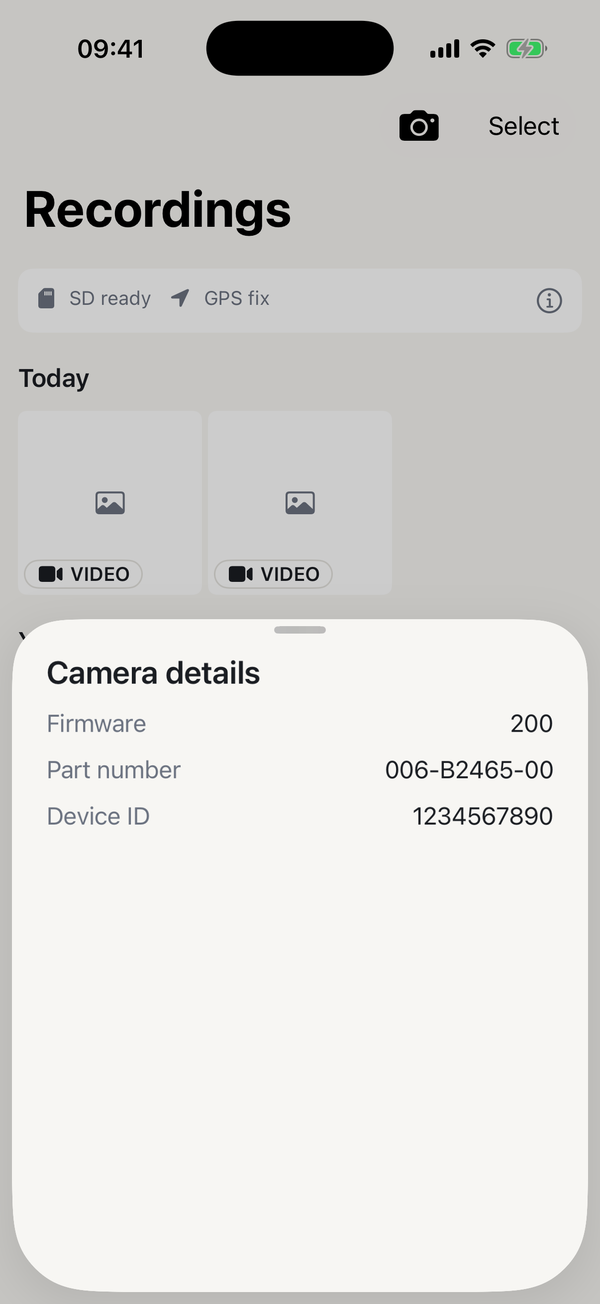
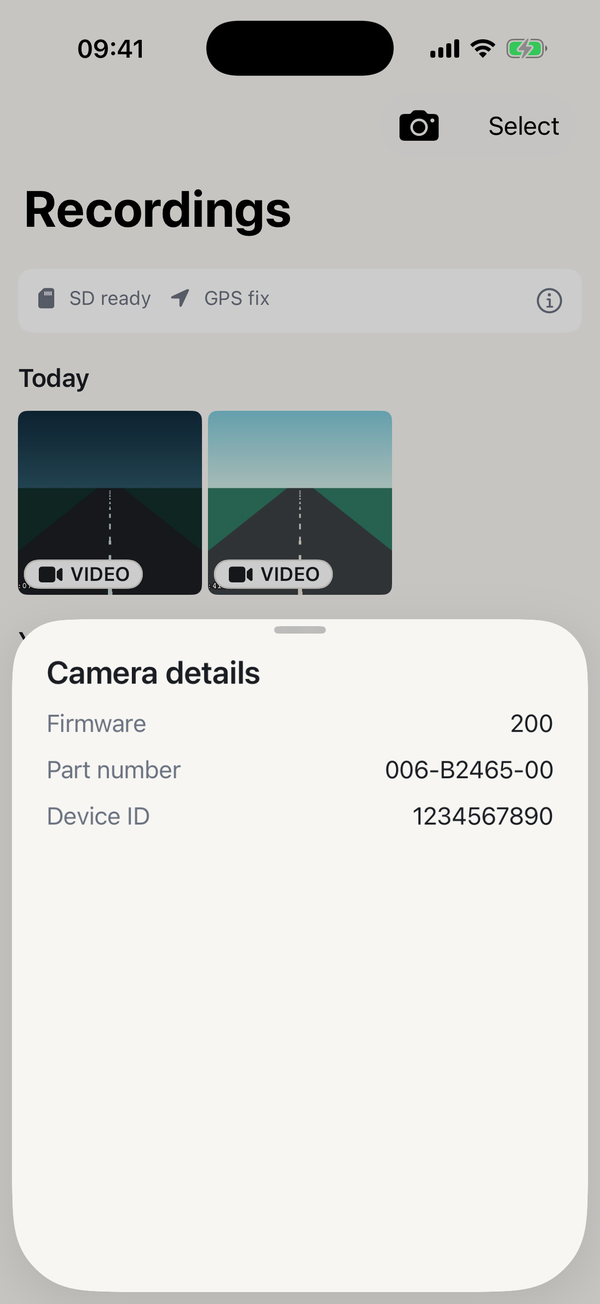
docs: add a security policy and recapture the screenshots
The repository's security overview listed the policy as the one disabled
item, so reporters had nowhere to go but a public issue — the worst place for
a vulnerability. SECURITY.md points at private reporting, scopes out the
camera firmware and the official app as other people's software, and writes
down the three properties that are the camera's design rather than findings:
cleartext HTTP with no TLS available, unauthenticated media downloads, and no
accounts or backend to attack.

Screenshots are recaptured now that the scripted camera serves frames — the
gallery and the detail screen show pictures instead of a placeholder and a
spinner, so the set drops the local-network explainer for the detail screen
and the GIF runs seven frames.

Changed region(s): [[0.03, 0.3067, 0.66, 0.4601]]

diff --git a/README.md b/README.md
@@ -27,15 +27,15 @@ zoom, video playback, save-to-Photos and share. Available in English, Italian, S
 <table>
   <tr>
     <td align="center"><img src="docs/screenshots/01-welcome.png" width="180" alt="Welcome screen"><br><sub>Guided setup</sub></td>
-    <td align="center"><img src="docs/screenshots/02-local-network.png" width="180" alt="Local Network permission explainer"><br><sub>Permissions, explained</sub></td>
-    <td align="center"><img src="docs/screenshots/03-gallery.png" width="180" alt="Recordings gallery"><br><sub>Recordings by date</sub></td>
+    <td align="center"><img src="docs/screenshots/02-gallery.png" width="180" alt="Recordings gallery"><br><sub>Recordings by date</sub></td>
+    <td align="center"><img src="docs/screenshots/03-media-detail.png" width="180" alt="A recording open, with save, share and delete"><br><sub>Save, share, delete</sub></td>
     <td align="center"><img src="docs/screenshots/04-camera-details.png" width="180" alt="Camera details sheet"><br><sub>Camera details</sub></td>
-    <td align="center"><img src="docs/screenshots/05-select.png" width="180" alt="Multi-select with download and delete"><br><sub>Bulk download & delete</sub></td>
+    <td align="center"><img src="docs/screenshots/05-select.png" width="180" alt="Multi-select with download and delete"><br><sub>Bulk download &amp; delete</sub></td>
   </tr>
 </table>
 
-<sub>Captured in the Simulator against a scripted camera, so the thumbnails render as placeholders —
-on real hardware they are your own footage.</sub>
+<sub>Captured in the Simulator against a scripted camera. The road frames are drawn placeholders
+that ship with the demo build — on real hardware they are your own footage.</sub>
 
 ## Installation
 
@@ -154,7 +154,7 @@ Xcode 26.6, iOS 17+, [Mint](https://github.com/yonaskolb/Mint). XcodeGen and Swi
 
 MVVM + Coordinator over SPM modules, tiered into `Packages/Core/` (8 modules) and
 `Packages/Features/` (2), with a thin app shell. The layer boundaries are enforced by SwiftLint
-rules, not just documented. 139 tests across eleven targets, including a UI suite that drives the
+rules, not just documented. 145 tests across eleven targets, including a UI suite that drives the
 real app against a scripted camera.
 
 ## Documentation
@@ -176,6 +176,10 @@ Tracked in [docs/NOTES.md](docs/NOTES.md); the short version:
   video is the largest open item, and it is not a code problem.
 - **Native review of the it/es/fr translations.**
 - A support URL and a privacy-policy URL for App Store Connect, and a real marketing version.
+
+## Security
+
+Please report vulnerabilities privately — see [SECURITY.md](SECURITY.md).
 
 ## License
 

diff --git a/SECURITY.md b/SECURITY.md
@@ -1,0 +1,49 @@
+# Security policy
+
+## Reporting a vulnerability
+
+**Please do not open a public issue for a security problem.**
+
+Use GitHub's private vulnerability reporting instead:
+[**Report a vulnerability**](https://github.com/hihelloluigi/citroen-connected-camera-ios/security/advisories/new).
+It is enabled on this repository and the report stays private until a fix is published.
+
+This is a spare-time project with one maintainer, so please allow a few days for a first reply.
+When you report, it helps to include the iOS version, the app version, and the steps that reproduce
+the problem.
+
+## Supported versions
+
+Only `main` is supported. There are no release branches and no backports — fixes land on `main` and
+you rebuild.
+
+## Scope
+
+In scope: anything in this repository — the app, its packages, the build scripts, and the CI
+workflows.
+
+Out of scope, because they are not this project's to fix:
+
+- **The camera's own firmware.** Report those to Citroën or Stellantis. The protocol notes in
+  [API_ANALYSIS.md](API_ANALYSIS.md) describe what the camera does; they do not make it this
+  project's behaviour.
+- **The official ConnectedCAM app.** Unrelated software from a different vendor.
+
+## Known and accepted by design
+
+These are properties of the camera, documented so nobody spends time reporting them as findings:
+
+- **The camera speaks cleartext HTTP.** There is no TLS on the device, at `192.168.0.1`, and it
+  cannot be added from the client side. `NSAllowsLocalNetworking` is set for exactly this reason
+  and is scoped to local addresses only.
+- **Media downloads are unauthenticated.** `GET /media/...` needs no handshake, so anyone already
+  on the camera's Wi-Fi can read the recordings. The defence is the Wi-Fi password, which is why
+  the app's setup flow pushes you to change it away from the factory default.
+- **The app has no accounts, no backend and no analytics.** The only value it persists is a
+  generated phone id in the Keychain and the onboarding flags in `UserDefaults`. See
+  [`PrivacyInfo.xcprivacy`](App/Resources/PrivacyInfo.xcprivacy).
+
+## What this project does not carry
+
+There is one build-time secret, `CCAM_TEAM_ID`, and it is only an Apple Developer Team ID needed to
+sign for a device. There is no API key, because there is no server. See [docs/SECRETS.md](docs/SECRETS.md).
